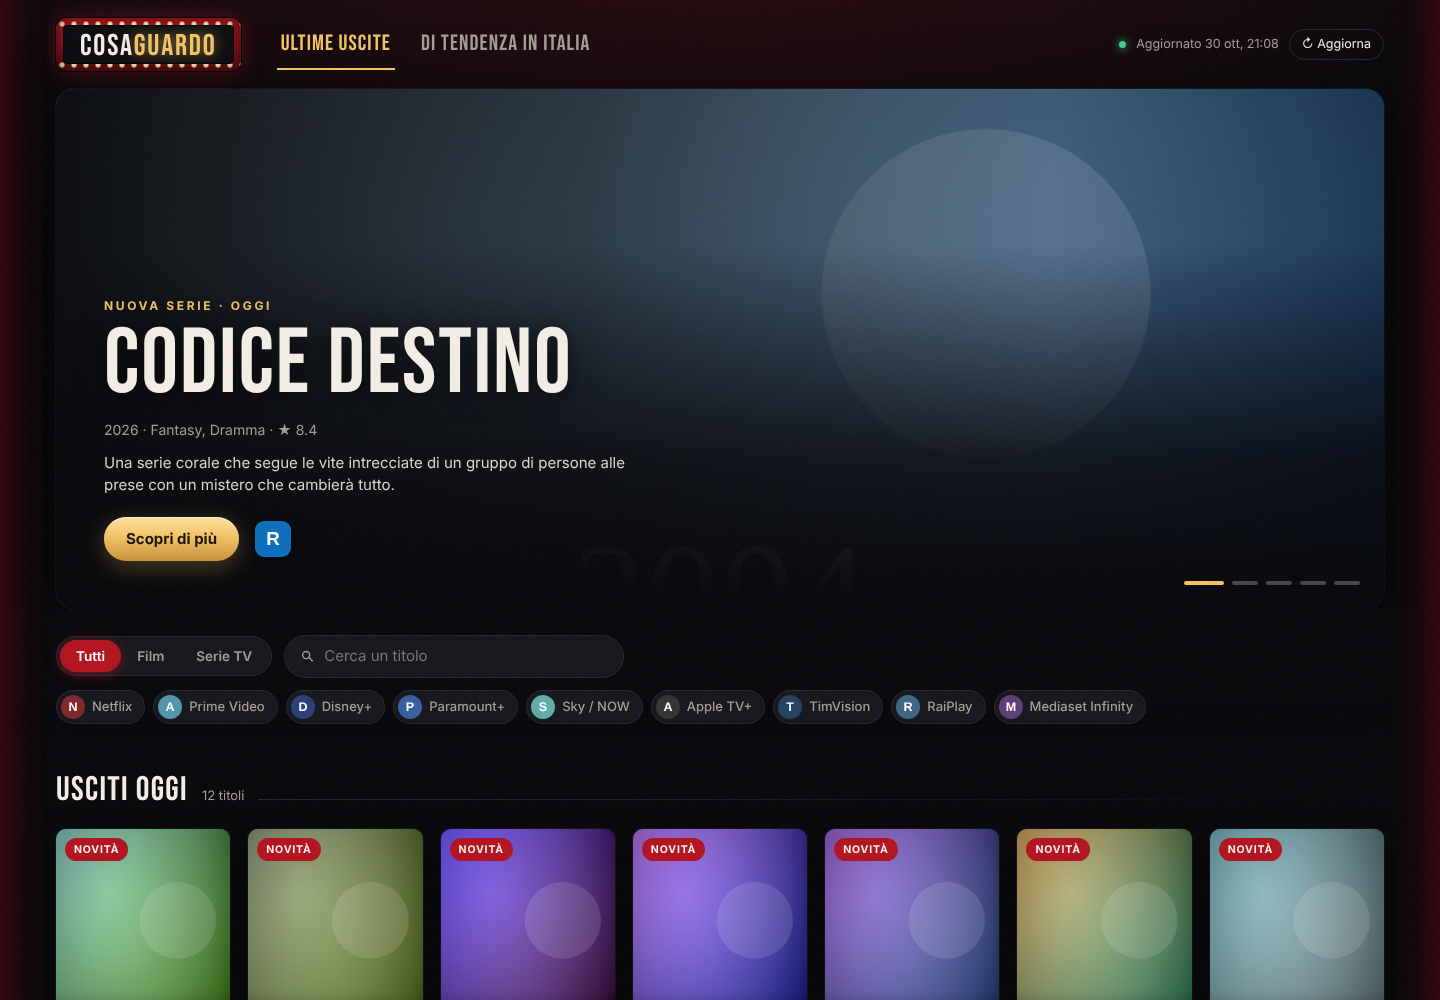
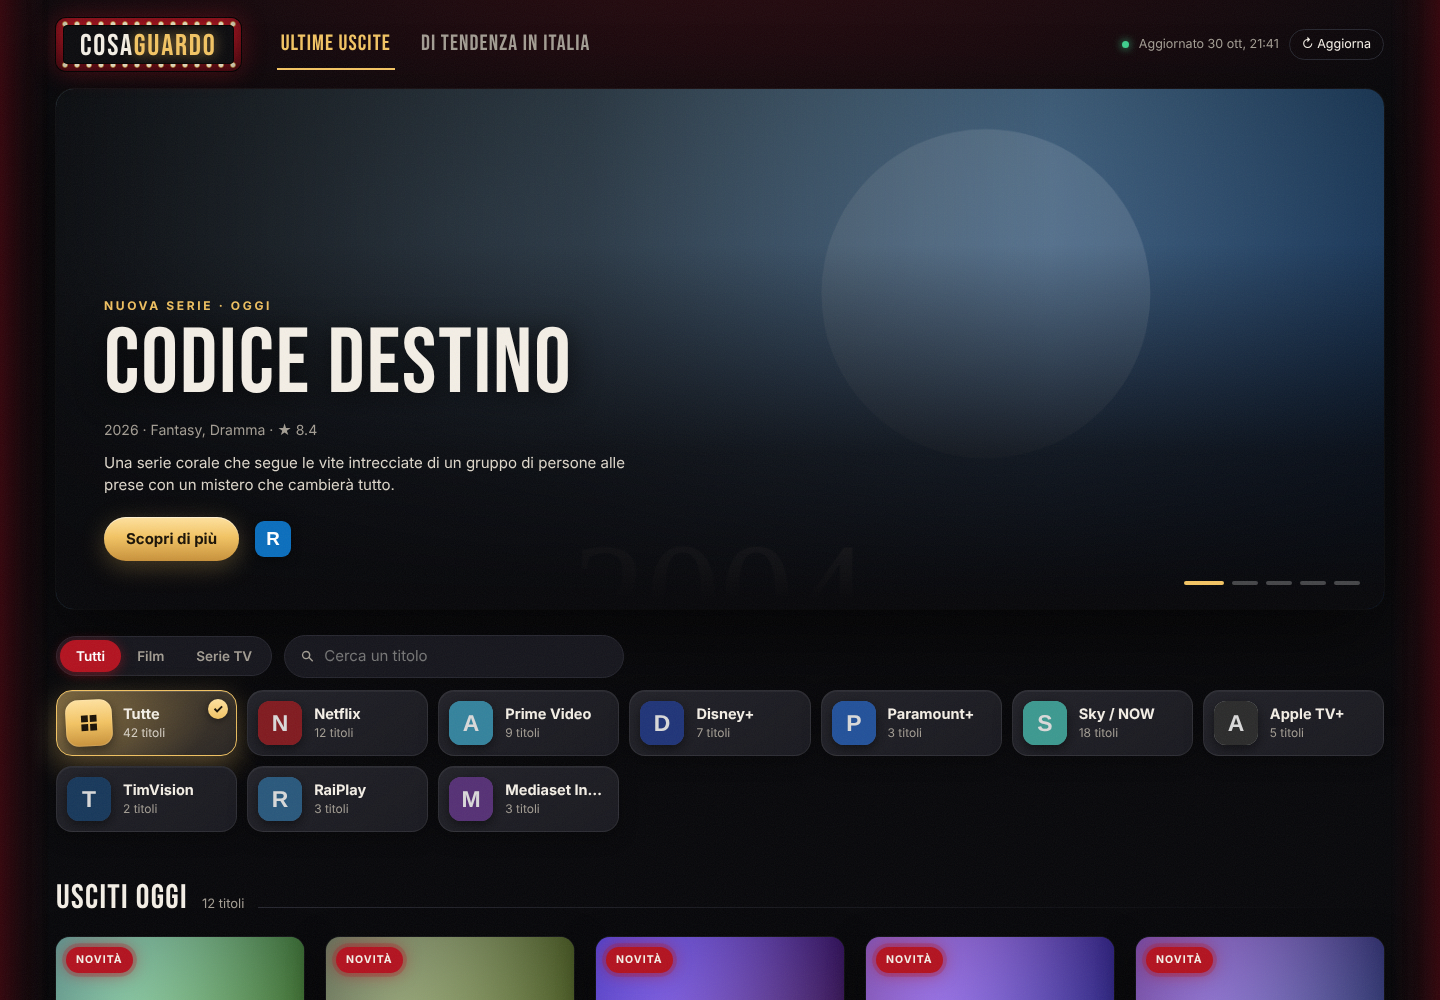
Locandine piu' grandi e animate, nuovi pulsanti delle piattaforme
- Locandine piu' grandi con entrata a cascata, caricamento sfumato,
  inclinazione 3D e riflesso che seguono il mouse, lampo di luce e
  trama che compare al passaggio.
- Piattaforme come tessere grandi con logo, nome e numero di titoli,
  colore del servizio quando sono attive e tessera "Tutte".

Claude-Session: https://claude.ai/code/session_01NGs2MCQHuKMHBXSPMXg5px

Changed region(s): [[0.0312, 0.682, 0.9688, 1.0], [0.7812, 0.031, 0.875, 0.062]]

diff --git a/app/static/style.css b/app/static/style.css
@@ -184,8 +184,7 @@ body.needs-key .tabs, body.needs-key .status, body.needs-key .hero, body.needs-k
 .filters {
   display: flex; flex-wrap: wrap; gap: 12px; align-items: center;
   padding: 26px var(--gutter) 14px;
-  position: sticky; top: 0; z-index: 5;
-  background: linear-gradient(var(--bg) 70%, transparent);
+  position: relative; z-index: 5;
 }
 .seg { display: inline-flex; background: var(--panel); border: 1px solid var(--line); border-radius: 999px; padding: 3px; }
 .seg button {
@@ -200,17 +199,54 @@ body.needs-key .tabs, body.needs-key .status, body.needs-key .hero, body.needs-k
 .search:focus-within { border-color: var(--gold-2); }
 .search svg { width: 17px; height: 17px; fill: var(--muted); flex: none; }
 .search input { flex: 1; min-width: 0; background: none; border: 0; outline: none; color: var(--text); padding: 9px 0; font: inherit; }
-.chips { display: flex; flex-wrap: wrap; gap: 8px; width: 100%; }
-.chip {
-  display: inline-flex; align-items: center; gap: 7px; cursor: pointer;
-  background: var(--panel); border: 1px solid var(--line); color: var(--muted);
-  border-radius: 999px; padding: 4px 12px 4px 4px; font-size: 13px; font-weight: 500;
-  transition: border-color .2s, color .2s, background .2s;
+/* Piattaforme: tessere con logo, nome e numero di titoli */
+.chips {
+  display: grid; gap: 10px; width: 100%;
+  grid-template-columns: repeat(auto-fill, minmax(168px, 1fr));
 }
-.chip img { width: 24px; height: 24px; border-radius: 50%; filter: grayscale(.6); transition: filter .2s; }
-.chip:hover { color: var(--text); }
-.chip.on { color: var(--text); border-color: var(--gold-2); background: #f3c46314; }
-.chip.on img { filter: none; }
+.chip {
+  --c: var(--gold);
+  position: relative; display: flex; align-items: center; gap: 12px; cursor: pointer; text-align: left;
+  min-height: 64px; padding: 10px 14px 10px 10px; border-radius: 16px;
+  background: linear-gradient(145deg, #ffffff0d, #ffffff03), var(--panel);
+  border: 1px solid #ffffff14; color: var(--text);
+  box-shadow: 0 6px 18px #0006, inset 0 1px 0 #ffffff0d;
+  transition: transform .25s cubic-bezier(.2, .8, .2, 1), border-color .25s, box-shadow .25s, background .25s;
+  overflow: hidden; isolation: isolate;
+}
+.chip::before {
+  content: ""; position: absolute; inset: 0; z-index: -1; opacity: 0; transition: opacity .3s;
+  background: radial-gradient(120% 140% at 0% 50%, color-mix(in srgb, var(--c) 38%, transparent), transparent 70%);
+}
+.chip:hover { transform: translateY(-3px); border-color: color-mix(in srgb, var(--c) 55%, #ffffff14); box-shadow: 0 12px 28px #000a, 0 0 0 1px color-mix(in srgb, var(--c) 30%, transparent); }
+.chip:hover::before { opacity: .55; }
+.chip:active { transform: translateY(-1px) scale(.98); }
+.chip-logo {
+  flex: none; width: 44px; height: 44px; border-radius: 12px; overflow: hidden; display: grid; place-items: center;
+  background: var(--c); box-shadow: 0 4px 12px #0008, inset 0 0 0 1px #ffffff1f;
+  filter: saturate(.55) brightness(.85); transition: filter .3s, transform .3s;
+}
+.chip-logo img { width: 100%; height: 100%; object-fit: cover; }
+.chip-logo svg { width: 22px; height: 22px; fill: #1a1206; }
+.chip:hover .chip-logo, .chip.on .chip-logo { filter: none; transform: scale(1.06) rotate(-3deg); }
+.chip-text { display: flex; flex-direction: column; min-width: 0; line-height: 1.2; }
+.chip-name { font-weight: 700; font-size: 14.5px; white-space: nowrap; overflow: hidden; text-overflow: ellipsis; }
+.chip-count { font-size: 12px; color: var(--muted); margin-top: 3px; }
+.chip.on {
+  border-color: var(--c);
+  background: linear-gradient(145deg, color-mix(in srgb, var(--c) 34%, transparent), color-mix(in srgb, var(--c) 8%, transparent)), var(--panel);
+  box-shadow: 0 10px 30px color-mix(in srgb, var(--c) 35%, #0000), inset 0 1px 0 #ffffff22;
+}
+.chip.on::before { opacity: .8; }
+.chip.on .chip-count { color: #f4efe6cc; }
+.chip-check {
+  position: absolute; top: 8px; right: 8px; width: 20px; height: 20px; border-radius: 50%;
+  display: grid; place-items: center; font-size: 12px; font-weight: 800; color: #1a1206;
+  background: linear-gradient(180deg, #ffe2a0, var(--gold)); box-shadow: 0 2px 8px #0008;
+  transform: scale(0); transition: transform .3s cubic-bezier(.3, 1.6, .5, 1);
+}
+.chip.on .chip-check { transform: scale(1); }
+.chip.all .chip-logo { background: linear-gradient(180deg, #ffe2a0, var(--gold) 50%, var(--gold-2)); }
 
 /* ------------------------------------------------------------ contenuto */
 
@@ -225,56 +261,105 @@ body.needs-key .tabs, body.needs-key .status, body.needs-key .hero, body.needs-k
 .block-head::after { content: ""; flex: 1; height: 1px; background: linear-gradient(90deg, var(--line), transparent); }
 
 .grid {
-  display: grid; gap: 22px 18px;
-  grid-template-columns: repeat(auto-fill, minmax(168px, 1fr));
+  display: grid; gap: 30px 22px;
+  grid-template-columns: repeat(auto-fill, minmax(205px, 1fr));
 }
 
+/* Locandine */
 .card {
+  --i: 0; --rx: 0deg; --ry: 0deg; --mx: 50%; --my: 30%;
   display: flex; flex-direction: column; gap: 10px; text-align: left; cursor: pointer;
   background: none; border: 0; padding: 0; outline: none;
+  animation: cardIn .7s cubic-bezier(.2, .8, .2, 1) both; animation-delay: calc(var(--i) * 40ms);
 }
+@keyframes cardIn { from { opacity: 0; transform: translateY(26px) scale(.96); } }
 .poster {
-  position: relative; aspect-ratio: 2/3; border-radius: var(--radius); overflow: hidden;
+  position: relative; aspect-ratio: 2/3; border-radius: 14px; overflow: hidden; isolation: isolate;
   background: linear-gradient(160deg, #1d1d25, #101015);
-  box-shadow: 0 10px 30px #000a, 0 0 0 1px #ffffff0f;
-  transition: transform .35s cubic-bezier(.2, .8, .2, 1), box-shadow .35s;
+  box-shadow: 0 12px 34px #000b, 0 0 0 1px #ffffff12;
+  transform: perspective(900px) rotateX(var(--rx)) rotateY(var(--ry));
+  transition: transform .5s cubic-bezier(.2, .8, .2, 1), box-shadow .4s;
+  will-change: transform;
 }
-.poster img.p { width: 100%; height: 100%; object-fit: cover; display: block; transition: transform .6s cubic-bezier(.2, .8, .2, 1); }
+.card.tilting .poster { transition: transform .08s linear, box-shadow .4s; }
+.poster img.p {
+  width: 100%; height: 100%; object-fit: cover; display: block;
+  opacity: 0; transform: scale(1.1); filter: blur(10px);
+  transition: opacity .7s, filter .7s, transform 1.1s cubic-bezier(.2, .8, .2, 1);
+}
+.poster img.p.ok { opacity: 1; transform: scale(1); filter: none; }
 .poster::after {
-  content: ""; position: absolute; inset: 0;
-  background: linear-gradient(0deg, #000d 0%, transparent 38%);
+  content: ""; position: absolute; inset: 0; z-index: 1; pointer-events: none;
+  background: linear-gradient(0deg, #000e 0%, #0008 22%, transparent 45%);
+  transition: background .4s;
+}
+/* Riflesso che segue il mouse */
+.glare {
+  position: absolute; inset: 0; z-index: 3; pointer-events: none; opacity: 0; transition: opacity .4s;
+  background: radial-gradient(circle at var(--mx) var(--my), #ffffff40, transparent 55%);
+  mix-blend-mode: overlay;
+}
+/* Lampo di luce che attraversa la locandina */
+.poster::before {
+  content: ""; position: absolute; inset: -20%; z-index: 3; pointer-events: none;
+  background: linear-gradient(115deg, transparent 40%, #ffffff30 50%, transparent 60%);
+  transform: translateX(-120%);
 }
 .card:hover .poster, .card:focus-visible .poster {
-  transform: translateY(-6px);
-  box-shadow: 0 20px 40px #000c, 0 0 0 2px var(--gold), 0 0 30px #f3c46344;
+  box-shadow: 0 28px 60px #000e, 0 0 0 2px var(--gold), 0 0 44px #f3c46355;
 }
-.card:hover .poster img.p { transform: scale(1.06); }
+.card:hover .poster::before { transform: translateX(120%); transition: transform .9s ease; }
+.card:hover .glare { opacity: 1; }
+.card:hover .poster img.p.ok { transform: scale(1.08); }
+.card:hover .poster::after { background: linear-gradient(0deg, #000f 0%, #000c 45%, #0004 75%, transparent); }
+.hover-info {
+  position: absolute; z-index: 2; left: 12px; right: 12px; bottom: 54px;
+  opacity: 0; transform: translateY(16px); transition: opacity .35s, transform .45s cubic-bezier(.2, .8, .2, 1);
+}
+.hover-info p {
+  margin: 0 0 10px; font-size: 12.5px; line-height: 1.45; color: #eee6d8;
+  display: -webkit-box; -webkit-line-clamp: 5; -webkit-box-orient: vertical; overflow: hidden;
+}
+.hover-info .go {
+  display: inline-flex; align-items: center; gap: 6px; font-size: 12px; font-weight: 700; color: #1a1206;
+  padding: 6px 12px; border-radius: 999px; background: linear-gradient(180deg, #ffe2a0, var(--gold) 50%, var(--gold-2));
+}
+.card:hover .hover-info, .card:focus-visible .hover-info { opacity: 1; transform: none; }
 .noimg {
   position: absolute; inset: 0; display: grid; place-items: center; padding: 16px; text-align: center;
-  font-family: var(--display); font-size: 26px; color: var(--muted); letter-spacing: .03em;
+  font-family: var(--display); font-size: 28px; color: var(--muted); letter-spacing: .03em;
 }
 .pill {
-  position: absolute; top: 9px; left: 9px; z-index: 1;
-  background: #000b; backdrop-filter: blur(4px); border: 1px solid #ffffff22;
-  font-size: 10.5px; font-weight: 700; letter-spacing: .08em; text-transform: uppercase;
-  padding: 3px 8px; border-radius: 999px;
+  position: absolute; top: 10px; left: 10px; z-index: 2;
+  background: #000b; backdrop-filter: blur(6px); border: 1px solid #ffffff22;
+  font-size: 10.5px; font-weight: 700; letter-spacing: .1em; text-transform: uppercase;
+  padding: 4px 9px; border-radius: 999px;
 }
-.pill.new { background: var(--red); border-color: transparent; }
-.poster .logos { position: absolute; z-index: 1; left: 9px; bottom: 9px; gap: 5px; flex-wrap: wrap; }
-.poster .logos img { width: 28px; height: 28px; border-radius: 7px; }
+.pill.new { background: var(--red); border-color: transparent; animation: glow 2.4s ease-in-out infinite; }
+@keyframes glow { 50% { box-shadow: 0 0 0 4px #b3121f44, 0 0 18px #b3121faa; } }
+.poster .logos { position: absolute; z-index: 2; left: 10px; bottom: 10px; gap: 6px; flex-wrap: wrap; }
+.poster .logos img {
+  width: 32px; height: 32px; border-radius: 9px; box-shadow: 0 3px 10px #000a, 0 0 0 1px #ffffff26;
+  transition: transform .35s cubic-bezier(.3, 1.5, .5, 1);
+}
+.card:hover .poster .logos img { transform: translateY(-2px) scale(1.08); }
+.card:hover .poster .logos img:nth-child(2) { transition-delay: .04s; }
+.card:hover .poster .logos img:nth-child(3) { transition-delay: .08s; }
 .poster .logos .txt {
-  font-size: 10px; font-weight: 700; background: var(--c); border-radius: 6px; padding: 4px 6px;
+  font-size: 10px; font-weight: 700; background: var(--c); border-radius: 7px; padding: 5px 7px;
 }
 .rating {
-  position: absolute; z-index: 1; right: 9px; bottom: 11px; font-size: 12px; font-weight: 700; color: var(--gold);
+  position: absolute; z-index: 2; right: 10px; bottom: 13px; font-size: 12.5px; font-weight: 700; color: var(--gold);
+  text-shadow: 0 1px 6px #000;
 }
-.card h3 { margin: 0; font-size: 14.5px; font-weight: 600; line-height: 1.3; color: var(--text); }
+.card h3 { margin: 0; font-size: 15.5px; font-weight: 600; line-height: 1.3; color: var(--text); transition: color .25s; }
+.card:hover h3 { color: var(--gold); }
 .card .meta { margin-top: -6px; font-size: 12.5px; color: var(--muted); }
 .card .meta b { color: #e9d9b5; font-weight: 600; }
 .card .sub { margin-top: -7px; font-size: 12px; font-weight: 600; color: var(--gold); }
 
 /* Classifica tendenze: numeri grandi in stile locandina */
-.grid.ranked { grid-template-columns: repeat(auto-fill, minmax(240px, 1fr)); }
+.grid.ranked { grid-template-columns: repeat(auto-fill, minmax(275px, 1fr)); }
 .rank-row { display: flex; align-items: flex-end; }
 .rank-row .poster { flex: 1; min-width: 0; z-index: 1; }
 .rank {
@@ -358,15 +443,16 @@ footer p { margin: 4px 0; }
   .filters { gap: 10px; padding-top: 18px; }
   .search { flex: 1 1 0; }
   .chips {
-    flex-wrap: nowrap; overflow-x: auto; scrollbar-width: none;
-    margin: 0 calc(-1 * var(--gutter)); padding: 0 var(--gutter) 4px;
+    display: flex; overflow-x: auto; scrollbar-width: none; scroll-snap-type: x proximity; scroll-padding-inline: var(--gutter);
+    margin: 0 calc(-1 * var(--gutter)); padding: 4px var(--gutter) 8px;
   }
   .chips::-webkit-scrollbar { display: none; }
-  .chip { flex: none; }
+  .chip { flex: none; width: 158px; scroll-snap-align: start; }
+  .hover-info { display: none; }
   .ranked .card h3, .ranked .card .meta, .ranked .card .sub { padding-left: 30px; }
   body::before { display: none; }
   .hero-dots { left: 50%; right: auto; transform: translateX(-50%); bottom: 14px; }
-  .grid { grid-template-columns: repeat(2, 1fr); gap: 18px 12px; }
+  .grid { grid-template-columns: repeat(2, 1fr); gap: 22px 12px; }
   .grid.ranked { grid-template-columns: 1fr 1fr; }
   .rank { width: 48px; font-size: 96px; margin-right: -6px; }
   .card.wide .rank { font-size: 66px; }

diff --git a/app/static/app.js b/app/static/app.js
@@ -75,11 +75,11 @@ function filtered(view = state.view) {
 
 // ---------------------------------------------------------------- schede
 
-function cardHtml(i) {
+function cardHtml(i, n = 0) {
   const fresh = state.view === "novita" && daysAgo(i.date) <= 2;
   const pill = fresh ? "Novità" : i.type === "movie" ? "Film" : "Serie TV";
   const poster = i.poster
-    ? `<img class="p" src="${esc(i.poster)}" alt="" loading="lazy">`
+    ? `<img class="p" src="${esc(i.poster)}" alt="" loading="lazy" onload="this.classList.add('ok')" onerror="this.classList.add('ok')">`
     : `<div class="noimg">${esc(i.title)}</div>`;
   const meta = state.view === "novita"
     ? `<b>${esc(relDate(i.date))}</b>${i.genres[0] ? ` · ${esc(i.genres[0])}` : ""}`
@@ -90,11 +90,13 @@ function cardHtml(i) {
       <span class="pill ${fresh ? "new" : ""}">${esc(pill)}</span>
       <div class="logos">${i.platforms.map(logoHtml).join("")}</div>
       ${i.rating ? `<span class="rating">★ ${i.rating}</span>` : ""}
+      ${i.overview ? `<div class="hover-info"><p>${esc(i.overview)}</p><span class="go">▶ Dettagli</span></div>` : ""}
+      <span class="glare"></span>
     </div>`;
   if (i.rank) {
     posterBox = `<div class="rank-row"><span class="rank" aria-label="Posizione ${i.rank}">${i.rank}</span>${posterBox}</div>`;
   }
-  return `<button class="card ${i.rank >= 10 ? "wide" : ""}" data-id="${esc(i.id)}">
+  return `<button class="card ${i.rank >= 10 ? "wide" : ""}" data-id="${esc(i.id)}" style="--i:${Math.min(n, 18)}">
     ${posterBox}
     <h3>${esc(i.title)}</h3>
     ${i.type === "tv" ? `<span class="sub">${esc(i.badge)}</span>` : ""}
@@ -106,7 +108,7 @@ function blockHtml(title, items, ranked = false) {
   const n = items.length;
   return `<section class="block">
     <div class="block-head"><h2>${esc(title)}</h2><span class="count">${n} ${n === 1 ? "titolo" : "titoli"}</span></div>
-    <div class="grid ${ranked ? "ranked" : ""}">${items.map(cardHtml).join("")}</div>
+    <div class="grid ${ranked ? "ranked" : ""}">${items.map((it, n) => cardHtml(it, n)).join("")}</div>
   </section>`;
 }
 
@@ -124,12 +126,34 @@ function render() {
   content.innerHTML = groups.filter((g) => g.items.length).map((g) => blockHtml(g.label, g.items)).join("");
 }
 
+function platformCounts() {
+  // Quanti titoli ha ogni piattaforma con i filtri attuali (tipo e ricerca)
+  const saved = state.platforms;
+  state.platforms = new Set();
+  const items = filtered();
+  state.platforms = saved;
+  const counts = { all: items.length };
+  for (const i of items) for (const p of i.platforms) counts[p] = (counts[p] || 0) + 1;
+  return counts;
+}
+
+function chipHtml(key, name, logo, color, count, on) {
+  return `<button class="chip ${on ? "on" : ""} ${key === "all" ? "all" : ""}" data-p="${esc(key)}" style="--c:${esc(color)}" aria-pressed="${on}">
+    <span class="chip-logo">${logo}</span>
+    <span class="chip-text"><span class="chip-name">${esc(name)}</span><span class="chip-count">${count} ${count === 1 ? "titolo" : "titoli"}</span></span>
+    <span class="chip-check" aria-hidden="true">✓</span>
+  </button>`;
+}
+
 function renderChips() {
   const ps = state.data?.piattaforme || {};
-  $("#platforms").innerHTML = Object.entries(ps).map(([k, p]) => `
-    <button class="chip ${state.platforms.has(k) ? "on" : ""}" data-p="${esc(k)}" aria-pressed="${state.platforms.has(k)}">
-      ${p.logo ? `<img src="${esc(p.logo)}" alt="">` : ""}${esc(p.name)}
-    </button>`).join("");
+  const counts = platformCounts();
+  const allIcon = `<svg viewBox="0 0 24 24" aria-hidden="true"><path d="M4 4h7v7H4zm9 0h7v7h-7zM4 13h7v7H4zm9 0h7v7h-7z"/></svg>`;
+  $("#platforms").innerHTML =
+    chipHtml("all", "Tutte", allIcon, "#f3c463", counts.all, !state.platforms.size) +
+    Object.entries(ps).map(([k, p]) => chipHtml(
+      k, p.name, p.logo ? `<img src="${esc(p.logo)}" alt="">` : "", p.color, counts[k] || 0, state.platforms.has(k),
+    )).join("");
 }
 
 function renderStatus(s) {
@@ -306,6 +330,7 @@ function setView(view) {
 
 document.querySelectorAll(".tab").forEach((t) => t.addEventListener("click", () => {
   setView(t.dataset.view);
+  renderChips();
   renderHero();
   render();
 }));
@@ -315,17 +340,19 @@ $("#tipo").addEventListener("click", (e) => {
   if (!b) return;
   state.tipo = b.dataset.tipo;
   $("#tipo").querySelectorAll("button").forEach((x) => x.classList.toggle("active", x === b));
+  renderChips();
   renderHero();
   render();
 });
 
-$("#search").addEventListener("input", (e) => { state.q = e.target.value.trim(); render(); });
+$("#search").addEventListener("input", (e) => { state.q = e.target.value.trim(); renderChips(); render(); });
 
 $("#platforms").addEventListener("click", (e) => {
   const b = e.target.closest(".chip");
   if (!b) return;
   const k = b.dataset.p;
-  state.platforms.has(k) ? state.platforms.delete(k) : state.platforms.add(k);
+  if (k === "all") state.platforms.clear();
+  else state.platforms.has(k) ? state.platforms.delete(k) : state.platforms.add(k);
   localSet("platforms", JSON.stringify([...state.platforms]));
   renderChips();
   renderHero();
@@ -336,6 +363,30 @@ content.addEventListener("click", (e) => {
   const c = e.target.closest(".card[data-id]");
   if (c) openDetail(c.dataset.id);
 });
+
+// Inclinazione 3D della locandina sotto il mouse
+if (matchMedia("(hover: hover) and (prefers-reduced-motion: no-preference)").matches) {
+  content.addEventListener("pointermove", (e) => {
+    const poster = e.target.closest(".poster");
+    if (!poster) return;
+    const card = poster.closest(".card");
+    const r = poster.getBoundingClientRect();
+    const x = (e.clientX - r.left) / r.width;
+    const y = (e.clientY - r.top) / r.height;
+    card.classList.add("tilting");
+    card.style.setProperty("--ry", `${(x - 0.5) * 14}deg`);
+    card.style.setProperty("--rx", `${(0.5 - y) * 12}deg`);
+    card.style.setProperty("--mx", `${x * 100}%`);
+    card.style.setProperty("--my", `${y * 100}%`);
+  });
+  content.addEventListener("pointerout", (e) => {
+    const card = e.target.closest(".card");
+    if (!card || card.contains(e.relatedTarget)) return;
+    card.classList.remove("tilting");
+    card.style.setProperty("--rx", "0deg");
+    card.style.setProperty("--ry", "0deg");
+  });
+}
 
 $("#hero-open").addEventListener("click", (e) => openDetail(e.currentTarget.dataset.id));
 $("#hero-dots").addEventListener("click", (e) => {

diff --git a/README.md b/README.md
@@ -13,6 +13,8 @@ CosaGuardo raccoglie i film e le serie TV appena usciti sulle piattaforme italia
 
 ![Home](docs/home.png)
 
+![Locandine animate e filtro per piattaforma](docs/piattaforme.png)
+
 | Di tendenza in Italia | Scheda del titolo | Mobile |
 |---|---|---|
 | ![Tendenze](docs/tendenze.png) | ![Scheda](docs/scheda.png) | ![Mobile](docs/mobile.png) |
